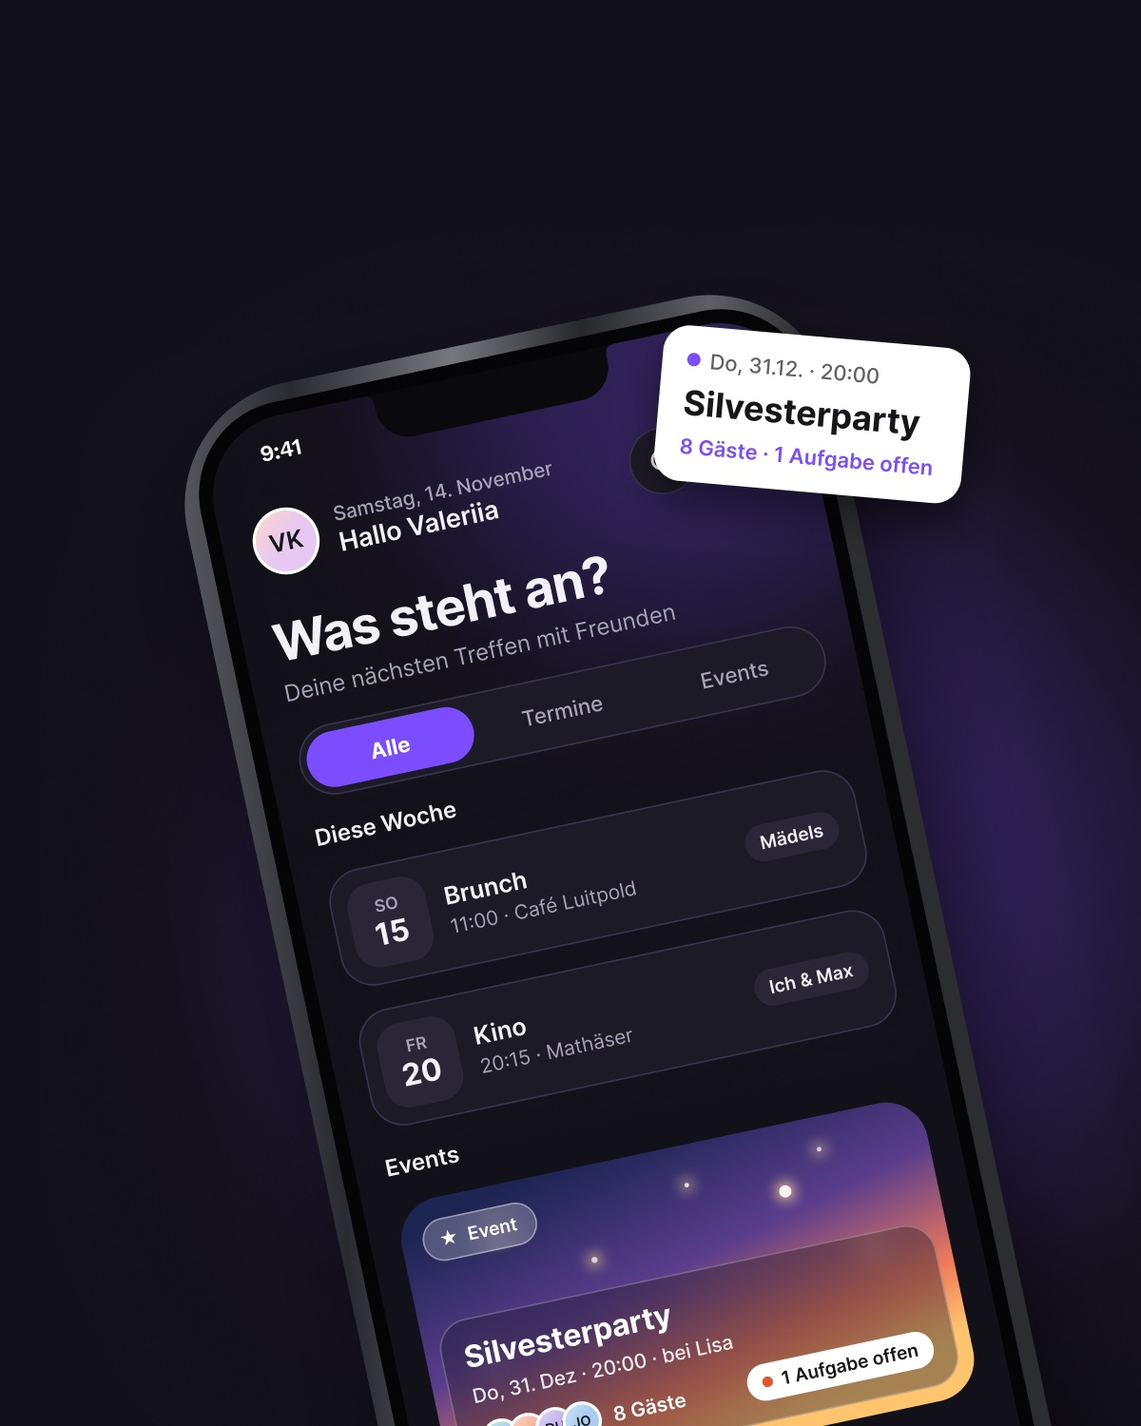
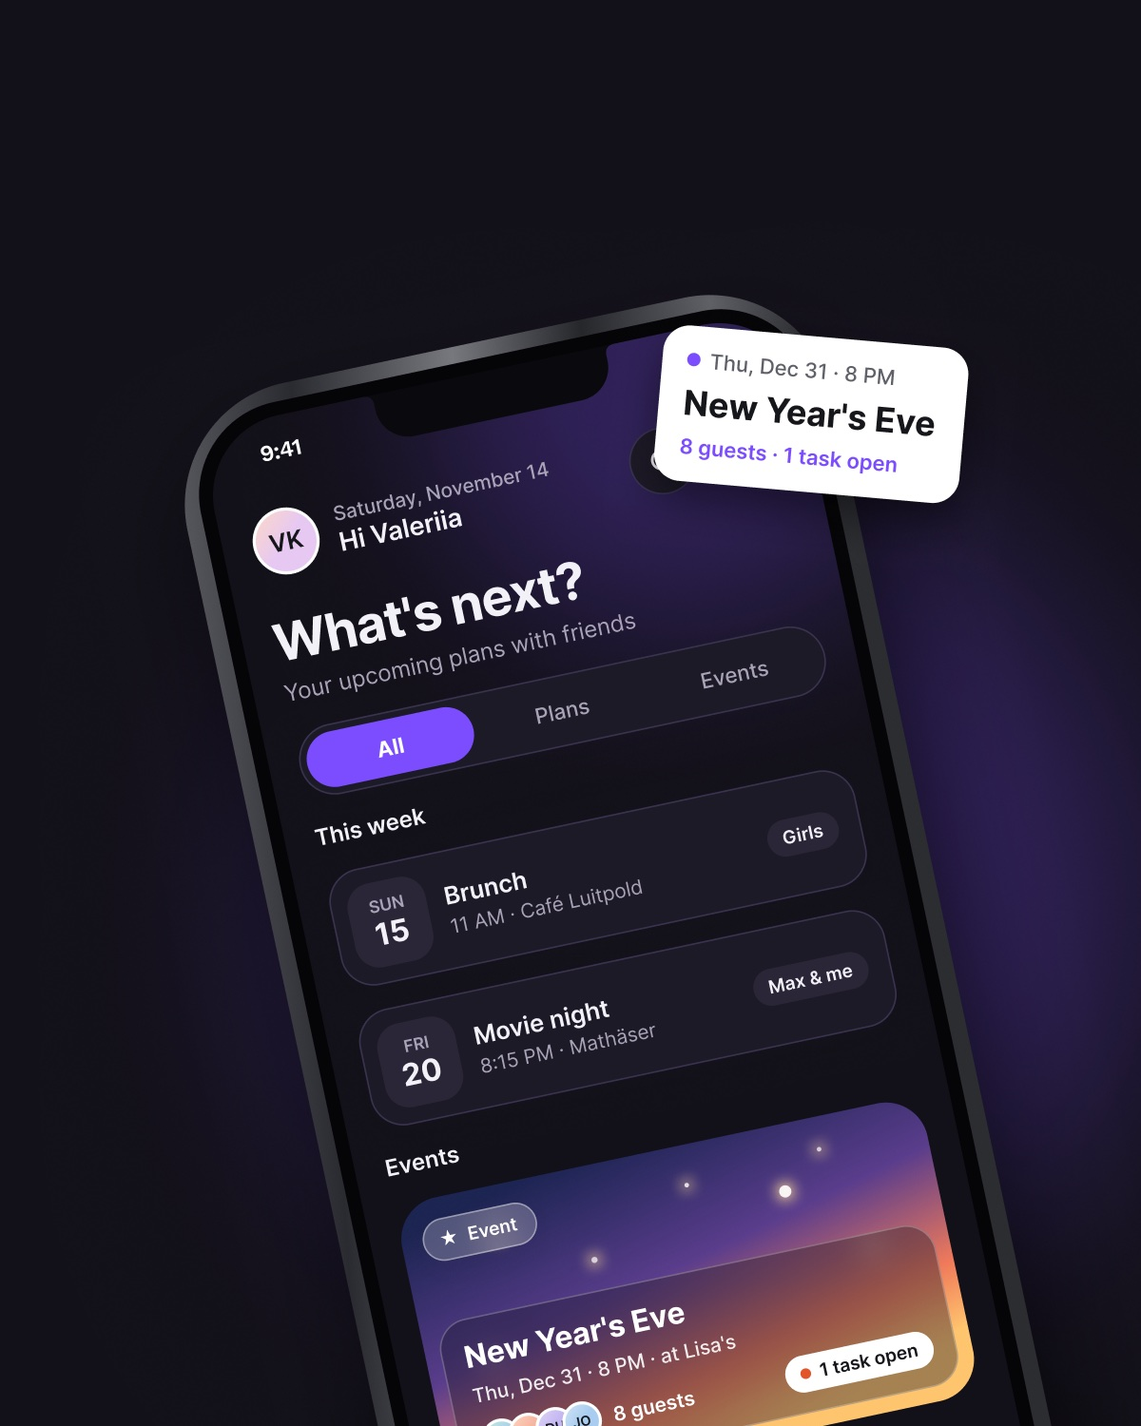
Projektseite: ReSway dunkel, sync. auf Englisch, beide Karten mit Stand beim Darüberfahren

diff --git a/projekte-en.html b/projekte-en.html
@@ -6,7 +6,7 @@
 <meta name="viewport" content="width=device-width, initial-scale=1, viewport-fit=cover">
 <title>Projects · Valeriia Kulakova</title>
 <meta name="description" content="Projects by Valeriia Kulakova, product builder based in Munich: ReSway as a case study, sync. in progress.">
-<link rel="stylesheet" href="style.css?v=bea0a8b0">
+<link rel="stylesheet" href="style.css?v=8dbc882a">
 <script src="nav.js?v=debee6c0"></script>
 <script src="cursor.js?v=5340a399"></script>
 </head>
@@ -28,31 +28,47 @@
   </div>
 
   <ul class="pj-row">
+    <!-- Beide Karten gleich: beim Darüberfahren oder Antippen wird das Bild unscharf und zeigt den Stand -->
     <li class="pj-item is-active">
-      <a class="pj-card" href="case-resway-en.html">
+      <a class="pj-card pj-reveal" href="case-resway-en.html" aria-describedby="pjResStand">
         <span class="pj-media">
-          <img src="media/projekte/cover-resway.jpg" width="1200" height="1500" decoding="async" alt="ReSway on an iPhone: the “Today” screen with the “Running · Restart · 1 km” card.">
-          <canvas class="pj-px" aria-hidden="true"></canvas>
-          <span class="pj-go" aria-hidden="true"><svg viewBox="0 0 7 7"><path d="M3 0h1v1H3zM4 1h1v1H4zM5 2h1v1H5zM0 3h7v1H0zM5 4h1v1H5zM4 5h1v1H4zM3 6h1v1H3z"/></svg></span>
+          <img src="media/projekte/cover-resway.jpg" width="1200" height="1500" decoding="async" alt="ReSway on an iPhone: the “Today” screen with the “Running · Restart · 1 km” card, next to a “Restart week · goal reached” card.">
+          <span class="pj-veil" id="pjResStand">
+            <span class="pj-veil-t">( view case → )</span>
+            <span class="pj-steps">
+              <span class="pj-step done"><i aria-hidden="true"></i>research</span>
+              <span class="pj-step done"><i aria-hidden="true"></i>design</span>
+              <span class="pj-step done"><i aria-hidden="true"></i>test</span>
+              <span class="pj-step"><i aria-hidden="true"></i>launch</span>
+            </span>
+            <span class="sr">Status: research, design and testing done, launch still to come.</span>
+          </span>
         </span>
         <span class="pj-meta">
           <span class="pj-name">ReSway</span>
-          <span class="pj-pills"><span>case 01</span><span>ux/ui</span><span>ai</span></span>
+          <span class="pj-pills"><span>routine app</span><span>ux/ui case</span></span>
         </span>
-        <span class="pj-desc">A routine app for getting back on track after a break, without pressure.</span>
       </a>
     </li>
     <li class="pj-item">
-      <article class="pj-card pj-soon" tabindex="0" aria-labelledby="pjSync" aria-describedby="pjSoon">
+      <article class="pj-card pj-reveal pj-soon" tabindex="0" aria-labelledby="pjSync" aria-describedby="pjSoon">
         <span class="pj-media">
-          <img src="media/projekte/cover-sync.jpg" width="1200" height="1500" decoding="async" alt="sync. on an iPhone: the overview with brunch, a movie night and the New Year’s Eve party, next to a “New Year’s Eve party · 8 guests” card.">
-          <span class="pj-veil" id="pjSoon"><span class="pj-soon-t">( coming soon )</span><span class="pj-load" aria-hidden="true"><i></i><i></i><i></i><i></i><i></i></span></span>
+          <img src="media/projekte/cover-sync.jpg" width="1200" height="1500" decoding="async" alt="sync. on an iPhone: the “What’s next?” overview with brunch, a movie night and New Year’s Eve, next to a “New Year’s Eve · 8 guests” card.">
+          <span class="pj-veil" id="pjSoon">
+            <span class="pj-veil-t">( coming soon )</span>
+            <span class="pj-steps">
+              <span class="pj-step done"><i aria-hidden="true"></i>concept</span>
+              <span class="pj-step done"><i aria-hidden="true"></i>prototype</span>
+              <span class="pj-step now"><i aria-hidden="true"></i>build</span>
+              <span class="pj-step"><i aria-hidden="true"></i>test</span>
+            </span>
+            <span class="sr">Status: concept and prototype done, build in progress, testing still to come.</span>
+          </span>
         </span>
         <span class="pj-meta">
           <span class="pj-name" id="pjSync">sync.</span>
-          <span class="pj-pills"><span>in progress</span><span>app</span><span>ai</span></span>
+          <span class="pj-pills"><span>social calendar</span><span>in progress</span></span>
         </span>
-        <span class="pj-desc">A shared calendar for friends. First version for New Year’s Eve, built with AI.</span>
       </article>
     </li>
   </ul>
@@ -83,27 +99,7 @@
   addEventListener('keydown',e=>{ if(e.target.closest('input,textarea')) return; if(e.key==='ArrowRight') setActive(active+1,true); if(e.key==='ArrowLeft') setActive(active-1,true); });
   setActive(0);
 
-  /* ReSway: beim Darüberfahren verpixelt das Bild in drei schnellen Stufen; beim Verlassen sofort wieder normal */
-  const STEPS=[8,14,20];
-  document.querySelectorAll('.page-projects a.pj-card').forEach(card=>{
-    const img=card.querySelector('img'), cv=card.querySelector('.pj-px'), media=card.querySelector('.pj-media');
-    if(!img||!cv) return;
-    const small=document.createElement('canvas'); let timers=[];
-    function draw(block){
-      if(!img.complete||!img.naturalWidth) return;
-      const w=media.clientWidth, h=media.clientHeight, dpr=Math.min(devicePixelRatio||1,2);
-      cv.width=Math.round(w*dpr); cv.height=Math.round(h*dpr);
-      const bw=Math.ceil(w/block), bh=Math.ceil(h/block); small.width=bw; small.height=bh;
-      small.getContext('2d').drawImage(img,0,0,bw,bh);
-      const c=cv.getContext('2d'); c.imageSmoothingEnabled=false; c.clearRect(0,0,cv.width,cv.height);
-      c.drawImage(small,0,0,bw,bh,0,0,bw*block*dpr,bh*block*dpr);
-    }
-    function on(){ timers.forEach(clearTimeout); timers=[]; card.classList.add('px-on'); if(reduce){ draw(STEPS[2]); return; } STEPS.forEach((b,i)=>timers.push(setTimeout(()=>draw(b),i*70))); }
-    function off(){ timers.forEach(clearTimeout); timers=[]; card.classList.remove('px-on'); }
-    card.addEventListener('pointerenter',e=>{ if(e.pointerType!=='touch') on(); });
-    card.addEventListener('pointerleave',off); card.addEventListener('focus',on); card.addEventListener('blur',off);
-  });
-  // sync.: auf dem Handy per Antippen „demnächst“ zeigen
+  // Ohne Maus: Karte ohne Link per Antippen aufdecken
   document.querySelectorAll('.page-projects .pj-soon').forEach(c=>c.addEventListener('click',()=>c.classList.toggle('soon-on')));
 })();
 </script>

diff --git a/projekte.html b/projekte.html
@@ -6,7 +6,7 @@
 <meta name="viewport" content="width=device-width, initial-scale=1, viewport-fit=cover">
 <title>Projekte · Valeriia Kulakova</title>
 <meta name="description" content="Projekte von Valeriia Kulakova, product builder aus München: ReSway als Case, sync. in Arbeit.">
-<link rel="stylesheet" href="style.css?v=bea0a8b0">
+<link rel="stylesheet" href="style.css?v=8dbc882a">
 <script src="nav.js?v=debee6c0"></script>
 <script src="cursor.js?v=5340a399"></script>
 </head>
@@ -28,31 +28,47 @@
   </div>
 
   <ul class="pj-row">
+    <!-- Beide Karten gleich: beim Darüberfahren oder Antippen wird das Bild unscharf und zeigt den Stand -->
     <li class="pj-item is-active">
-      <a class="pj-card" href="case-resway.html">
+      <a class="pj-card pj-reveal" href="case-resway.html" aria-describedby="pjResStand">
         <span class="pj-media">
-          <img src="media/projekte/cover-resway.jpg" width="1200" height="1500" decoding="async" alt="ReSway auf einem iPhone: der Bildschirm „Heute“ mit der Karte „Laufen · Restart · 1 km“.">
-          <canvas class="pj-px" aria-hidden="true"></canvas>
-          <span class="pj-go" aria-hidden="true"><svg viewBox="0 0 7 7"><path d="M3 0h1v1H3zM4 1h1v1H4zM5 2h1v1H5zM0 3h7v1H0zM5 4h1v1H5zM4 5h1v1H4zM3 6h1v1H3z"/></svg></span>
+          <img src="media/projekte/cover-resway.jpg" width="1200" height="1500" decoding="async" alt="ReSway auf einem iPhone: der Bildschirm „Heute“ mit der Karte „Laufen · Restart · 1 km“, daneben eine Karte „Restart-Woche · Ziel erreicht“.">
+          <span class="pj-veil" id="pjResStand">
+            <span class="pj-veil-t">( case ansehen → )</span>
+            <span class="pj-steps">
+              <span class="pj-step done"><i aria-hidden="true"></i>research</span>
+              <span class="pj-step done"><i aria-hidden="true"></i>design</span>
+              <span class="pj-step done"><i aria-hidden="true"></i>test</span>
+              <span class="pj-step"><i aria-hidden="true"></i>launch</span>
+            </span>
+            <span class="sr">Stand: Research, Design und Test fertig, Launch noch offen.</span>
+          </span>
         </span>
         <span class="pj-meta">
           <span class="pj-name">ReSway</span>
-          <span class="pj-pills"><span>case 01</span><span>ux/ui</span><span>ki</span></span>
+          <span class="pj-pills"><span>routine-app</span><span>ux/ui-case</span></span>
         </span>
-        <span class="pj-desc">Routine-App für den Wiedereinstieg nach einer Pause, ohne Druck.</span>
       </a>
     </li>
     <li class="pj-item">
-      <article class="pj-card pj-soon" tabindex="0" aria-labelledby="pjSync" aria-describedby="pjSoon">
+      <article class="pj-card pj-reveal pj-soon" tabindex="0" aria-labelledby="pjSync" aria-describedby="pjSoon">
         <span class="pj-media">
-          <img src="media/projekte/cover-sync.jpg" width="1200" height="1500" decoding="async" alt="sync. auf einem iPhone: die Übersicht mit Brunch, Kino und der Silvesterparty, daneben eine Karte „Silvesterparty · 8 Gäste“.">
-          <span class="pj-veil" id="pjSoon"><span class="pj-soon-t">( demnächst )</span><span class="pj-load" aria-hidden="true"><i></i><i></i><i></i><i></i><i></i></span></span>
+          <img src="media/projekte/cover-sync.jpg" width="1200" height="1500" decoding="async" alt="sync. auf einem iPhone: die Übersicht „What’s next?“ mit Brunch, Movie night und New Year’s Eve, daneben eine Karte „New Year’s Eve · 8 guests“.">
+          <span class="pj-veil" id="pjSoon">
+            <span class="pj-veil-t">( demnächst )</span>
+            <span class="pj-steps">
+              <span class="pj-step done"><i aria-hidden="true"></i>konzept</span>
+              <span class="pj-step done"><i aria-hidden="true"></i>prototyp</span>
+              <span class="pj-step now"><i aria-hidden="true"></i>bauen</span>
+              <span class="pj-step"><i aria-hidden="true"></i>test</span>
+            </span>
+            <span class="sr">Stand: Konzept und Prototyp fertig, Bauen läuft, Test noch offen.</span>
+          </span>
         </span>
         <span class="pj-meta">
           <span class="pj-name" id="pjSync">sync.</span>
-          <span class="pj-pills"><span>in arbeit</span><span>app</span><span>ki</span></span>
+          <span class="pj-pills"><span>social calendar</span><span>in arbeit</span></span>
         </span>
-        <span class="pj-desc">Gemeinsamer Kalender für Freunde. Erste Version für Silvester, gebaut mit KI.</span>
       </article>
     </li>
   </ul>
@@ -83,27 +99,7 @@
   addEventListener('keydown',e=>{ if(e.target.closest('input,textarea')) return; if(e.key==='ArrowRight') setActive(active+1,true); if(e.key==='ArrowLeft') setActive(active-1,true); });
   setActive(0);
 
-  /* ReSway: beim Darüberfahren verpixelt das Bild in drei schnellen Stufen; beim Verlassen sofort wieder normal */
-  const STEPS=[8,14,20];
-  document.querySelectorAll('.page-projects a.pj-card').forEach(card=>{
-    const img=card.querySelector('img'), cv=card.querySelector('.pj-px'), media=card.querySelector('.pj-media');
-    if(!img||!cv) return;
-    const small=document.createElement('canvas'); let timers=[];
-    function draw(block){
-      if(!img.complete||!img.naturalWidth) return;
-      const w=media.clientWidth, h=media.clientHeight, dpr=Math.min(devicePixelRatio||1,2);
-      cv.width=Math.round(w*dpr); cv.height=Math.round(h*dpr);
-      const bw=Math.ceil(w/block), bh=Math.ceil(h/block); small.width=bw; small.height=bh;
-      small.getContext('2d').drawImage(img,0,0,bw,bh);
-      const c=cv.getContext('2d'); c.imageSmoothingEnabled=false; c.clearRect(0,0,cv.width,cv.height);
-      c.drawImage(small,0,0,bw,bh,0,0,bw*block*dpr,bh*block*dpr);
-    }
-    function on(){ timers.forEach(clearTimeout); timers=[]; card.classList.add('px-on'); if(reduce){ draw(STEPS[2]); return; } STEPS.forEach((b,i)=>timers.push(setTimeout(()=>draw(b),i*70))); }
-    function off(){ timers.forEach(clearTimeout); timers=[]; card.classList.remove('px-on'); }
-    card.addEventListener('pointerenter',e=>{ if(e.pointerType!=='touch') on(); });
-    card.addEventListener('pointerleave',off); card.addEventListener('focus',on); card.addEventListener('blur',off);
-  });
-  // sync.: auf dem Handy per Antippen „demnächst“ zeigen
+  // Ohne Maus: Karte ohne Link per Antippen aufdecken
   document.querySelectorAll('.page-projects .pj-soon').forEach(c=>c.addEventListener('click',()=>c.classList.toggle('soon-on')));
 })();
 </script>

diff --git a/style.css b/style.css
@@ -84,6 +84,7 @@ body.page-projects{
   --pj-badge:#0e0f12;
   --pj-veil:rgba(14,15,18,.38);
   --pj-on-image:#ffffff;
+  --pj-step-muted:rgba(255,255,255,.78);   /* offene Schritte auf dem unscharfen Bild */
   --pj-card-w:min(500px,40vw,calc((100svh - 340px) * .8));   /* Bild, Name und Pillen passen auf einen Bildschirm */
   color-scheme:dark;
 }
@@ -381,41 +382,34 @@ body.page-projects .pj-item.is-active{opacity:1}
 body.page-projects .pj-card{display:flex;flex-direction:column;gap:14px;color:var(--color-text);text-decoration:none;outline:none}
 body.page-projects .pj-media{position:relative;display:block;aspect-ratio:4/5;border-radius:var(--radius-s);overflow:hidden;isolation:isolate;background:#1a1b1d}
 body.page-projects .pj-media img{position:absolute;inset:0;width:100%;height:100%;object-fit:cover;display:block;transition:filter .35s var(--ease),transform .5s var(--ease)}
-body.page-projects .pj-item.is-active a.pj-card .pj-media img{transform:scale(1.015)}
-body.page-projects .pj-px{position:absolute;inset:0;width:100%;height:100%;z-index:1;opacity:0}
-body.page-projects .px-on .pj-px{opacity:1}
-body.page-projects .pj-go{position:absolute;left:50%;top:50%;z-index:4;width:60px;height:60px;margin:-30px 0 0 -30px;border-radius:50%;background:var(--pj-badge);display:grid;place-items:center;opacity:0}
-body.page-projects .pj-go svg{width:22px;height:22px;fill:var(--color-accent);shape-rendering:crispEdges}
-body.page-projects .px-on .pj-go{opacity:1}
-body.page-projects a.pj-card:focus-visible .pj-media,body.page-projects .pj-soon:focus-visible .pj-media{outline:2px solid var(--color-focus);outline-offset:4px}
+body.page-projects .pj-reveal:focus-visible .pj-media{outline:2px solid var(--color-focus);outline-offset:4px}
 body.page-projects .pj-meta{display:flex;align-items:center;justify-content:space-between;gap:12px;flex-wrap:wrap}
 body.page-projects .pj-name{font-size:clamp(1.3rem,1.8vw,1.75rem);font-weight:500;letter-spacing:-.01em}
 body.page-projects .pj-pills{display:flex;gap:8px;flex-wrap:wrap}
 body.page-projects .pj-pills span{font-family:var(--font-mono);font-size:.74rem;letter-spacing:.1em;text-transform:uppercase;padding:5px 12px;border:1px solid var(--pj-pill-line);border-radius:999px;color:var(--color-text)}
-body.page-projects .pj-desc{font-size:.95rem;line-height:1.45;color:var(--color-muted);max-width:44ch}
 body.page-projects a.pj-card:hover .pj-name{text-decoration:underline;text-underline-offset:6px;text-decoration-thickness:1px}
 body.page-projects .pj-line{position:relative;width:min(1180px,100%);height:1px;background:var(--color-line)}
 body.page-projects .pj-line i{position:absolute;left:0;top:-1px;height:3px;width:50%;background:var(--color-text);transition:transform .45s var(--ease)}
-/* „Demnächst“: Bild wird unscharf, in der Mitte Text und Pixel-Ladebalken */
+/* Aufdecken (beide Karten gleich): Bild wird unscharf, in der Mitte Text und Stand in Schritten */
 body.page-projects .pj-soon{cursor:default}
+body.page-projects .pj-veil-t{font-size:1rem}
+body.page-projects .pj-steps{display:flex;flex-wrap:wrap;justify-content:center;gap:8px 16px;font-size:.78rem;letter-spacing:.06em;color:var(--pj-step-muted)}
+body.page-projects .pj-step{display:inline-flex;align-items:center;gap:6px}
+body.page-projects .pj-step i{width:9px;height:9px;border:1.5px solid var(--pj-on-image)}
+body.page-projects .pj-step.done{color:var(--pj-on-image)}
+body.page-projects .pj-step.done i{background:var(--pj-on-image)}
+body.page-projects .pj-step.now{color:var(--pj-on-image)}
+body.page-projects .pj-step.now i{background:var(--color-accent);border-color:var(--color-accent)}
 body.page-projects .pj-veil{position:absolute;inset:0;z-index:4;display:flex;flex-direction:column;align-items:center;justify-content:center;gap:12px;background:var(--pj-veil);color:var(--pj-on-image);font-family:var(--font-mono);font-size:.95rem;letter-spacing:.08em;opacity:0;transition:opacity .3s var(--ease)}
-body.page-projects .pj-load{display:flex;gap:4px}
-body.page-projects .pj-load i{width:8px;height:8px;background:var(--pj-on-image);opacity:.25}
-body.page-projects .pj-soon:hover img,body.page-projects .pj-soon:focus-visible img,body.page-projects .pj-soon.soon-on img{filter:blur(12px) saturate(.85);transform:scale(1.06)}
-body.page-projects .pj-soon:hover .pj-veil,body.page-projects .pj-soon:focus-visible .pj-veil,body.page-projects .pj-soon.soon-on .pj-veil{opacity:1}
-body.page-projects .pj-soon:hover .pj-load i,body.page-projects .pj-soon:focus-visible .pj-load i,body.page-projects .pj-soon.soon-on .pj-load i{animation:pj-load 1.5s steps(1) infinite}
-body.page-projects .pj-load i:nth-child(2){animation-delay:.3s!important}
-body.page-projects .pj-load i:nth-child(3){animation-delay:.6s!important}
-body.page-projects .pj-load i:nth-child(4){animation-delay:.9s!important}
-body.page-projects .pj-load i:nth-child(5){animation-delay:1.2s!important}
-@keyframes pj-load{0%,60%{opacity:1}61%,100%{opacity:.25}}
+body.page-projects .pj-reveal:hover img,body.page-projects .pj-reveal:focus-visible img,body.page-projects .pj-reveal.soon-on img{filter:blur(12px) saturate(.85);transform:scale(1.06)}
+body.page-projects .pj-reveal:hover .pj-veil,body.page-projects .pj-reveal:focus-visible .pj-veil,body.page-projects .pj-reveal.soon-on .pj-veil{opacity:1}
+@keyframes pj-blink{0%{opacity:1}50%{opacity:.3}}
+@media (prefers-reduced-motion:no-preference){body.page-projects .pj-reveal:hover .pj-step.now i,body.page-projects .pj-reveal.soon-on .pj-step.now i{animation:pj-blink 1s steps(2) infinite}}
 body.page-projects .legal a{color:var(--color-muted)}
 body.page-projects .legal a:hover{color:var(--color-text)}
 @media (prefers-reduced-motion:reduce){
   body.page-projects .pj-item,body.page-projects .pj-media img,body.page-projects .pj-veil,body.page-projects .pj-line i{transition:none}
-  body.page-projects .pj-load i{animation:none!important}
-  body.page-projects .pj-load i:nth-child(-n+3){opacity:1}
-}
+    }
 /* Ohne Maus gibt es kein Dimmen: beide Projekte sind gleich hell */
 @media (hover:none){body.page-projects .pj-item{opacity:1}}
 @media (max-width:760px){

diff --git a/case-resway.html b/case-resway.html
@@ -6,7 +6,7 @@
 <meta name="tdm-reservation" content="1">
 <title>ReSway · Case Study · Valeriia Kulakova</title>
 <meta name="description" content="ReSway: eine App, die Menschen mit ADHS beim Wiedereinstieg in ihre Routinen hilft. Case Study von Valeriia Kulakova.">
-<link rel="stylesheet" href="style.css?v=bea0a8b0">
+<link rel="stylesheet" href="style.css?v=8dbc882a">
 <script src="nav.js?v=debee6c0"></script>
 <script src="cursor.js?v=5340a399"></script>
 <script>document.documentElement.classList.add('js');</script>

diff --git a/case-resway-en.html b/case-resway-en.html
@@ -6,7 +6,7 @@
 <meta name="tdm-reservation" content="1">
 <title>ReSway · Case Study · Valeriia Kulakova</title>
 <meta name="description" content="ReSway: an app that helps people with ADHD get back into their routines. Case study by Valeriia Kulakova.">
-<link rel="stylesheet" href="style.css?v=bea0a8b0">
+<link rel="stylesheet" href="style.css?v=8dbc882a">
 <script src="nav.js?v=debee6c0"></script>
 <script src="cursor.js?v=5340a399"></script>
 <script>document.documentElement.classList.add('js');</script>

diff --git a/contact-en.html b/contact-en.html
@@ -6,7 +6,7 @@
 <meta name="viewport" content="width=device-width, initial-scale=1, viewport-fit=cover">
 <title>Contact · Valeriia Kulakova</title>
 <meta name="description" content="Get in touch with Valeriia Kulakova, product builder in Munich: email, LinkedIn, CV and the ReSway case study.">
-<link rel="stylesheet" href="style.css?v=bea0a8b0">
+<link rel="stylesheet" href="style.css?v=8dbc882a">
 <script src="nav.js?v=debee6c0"></script>
 <script src="cursor.js?v=5340a399"></script>
 </head>

diff --git a/contact.html b/contact.html
@@ -6,7 +6,7 @@
 <meta name="viewport" content="width=device-width, initial-scale=1, viewport-fit=cover">
 <title>Kontakt · Valeriia Kulakova</title>
 <meta name="description" content="Kontakt zu Valeriia Kulakova, product builder aus München: E-Mail, LinkedIn, Lebenslauf und Case ReSway.">
-<link rel="stylesheet" href="style.css?v=bea0a8b0">
+<link rel="stylesheet" href="style.css?v=8dbc882a">
 <script src="nav.js?v=debee6c0"></script>
 <script src="cursor.js?v=5340a399"></script>
 </head>

diff --git a/about.html b/about.html
@@ -6,7 +6,7 @@
 <meta name="viewport" content="width=device-width, initial-scale=1, viewport-fit=cover">
 <title>Über mich · Valeriia Kulakova</title>
 <meta name="description" content="Valeriia Kulakova: von der Entwicklung über Product Ownership zum Product Builder für UX/UI.">
-<link rel="stylesheet" href="style.css?v=bea0a8b0">
+<link rel="stylesheet" href="style.css?v=8dbc882a">
 <script src="nav.js?v=debee6c0"></script>
 <script src="cursor.js?v=5340a399"></script>
 </head>

diff --git a/about-en.html b/about-en.html
@@ -6,7 +6,7 @@
 <meta name="viewport" content="width=device-width, initial-scale=1, viewport-fit=cover">
 <title>About · Valeriia Kulakova</title>
 <meta name="description" content="Valeriia Kulakova: from software development and product ownership to product builder for UX/UI.">
-<link rel="stylesheet" href="style.css?v=bea0a8b0">
+<link rel="stylesheet" href="style.css?v=8dbc882a">
 <script src="nav.js?v=debee6c0"></script>
 <script src="cursor.js?v=5340a399"></script>
 </head>

diff --git a/index-en.html b/index-en.html
@@ -6,7 +6,7 @@
 <meta name="viewport" content="width=device-width, initial-scale=1, viewport-fit=cover">
 <title>Valeriia Kulakova · product builder</title>
 <meta name="description" content="Valeriia Kulakova, product builder for UX/UI based in Munich.">
-<link rel="stylesheet" href="style.css?v=bea0a8b0">
+<link rel="stylesheet" href="style.css?v=8dbc882a">
 <script src="nav.js?v=debee6c0"></script>
 <script src="cursor.js?v=5340a399"></script>
 </head>

diff --git a/index.html b/index.html
@@ -6,7 +6,7 @@
 <meta name="viewport" content="width=device-width, initial-scale=1, viewport-fit=cover">
 <title>Valeriia Kulakova · product builder</title>
 <meta name="description" content="Valeriia Kulakova, Product Builder für UX/UI aus München.">
-<link rel="stylesheet" href="style.css?v=bea0a8b0">
+<link rel="stylesheet" href="style.css?v=8dbc882a">
 <script src="nav.js?v=debee6c0"></script>
 <script src="cursor.js?v=5340a399"></script>
 </head>

diff --git a/datenschutz.html b/datenschutz.html
@@ -7,7 +7,7 @@
 <meta name="robots" content="noindex">
 <title>Datenschutz · Valeriia Kulakova</title>
 <meta name="description" content="Datenschutzerklärung der Portfolio-Seite von Valeriia Kulakova.">
-<link rel="stylesheet" href="style.css?v=bea0a8b0">
+<link rel="stylesheet" href="style.css?v=8dbc882a">
 <script src="nav.js?v=debee6c0"></script>
 <script src="cursor.js?v=5340a399"></script>
 </head>
